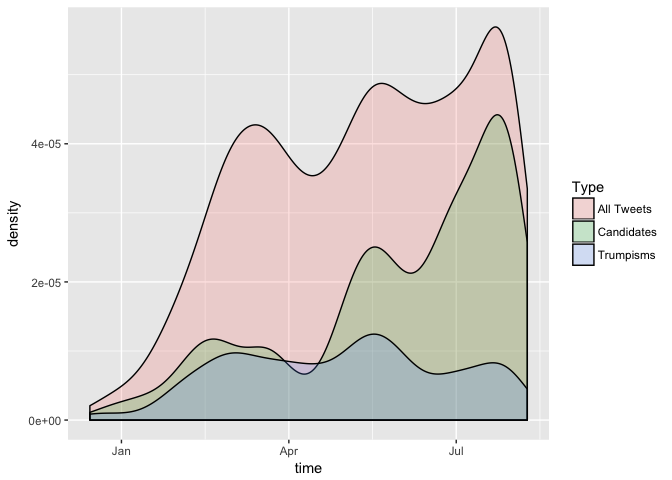
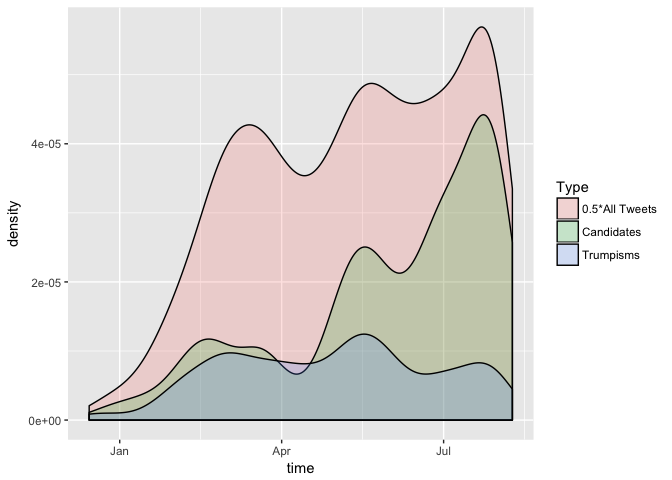
Explained some things better

diff --git a/hw06/LittleBird.md b/hw06/LittleBird.md
@@ -147,7 +147,9 @@ knitr::kable(head(df))
 |2016-08-07 21:31:46 |        0|         0| 0.5|
 |2016-08-07 13:49:29 |        0|         0| 0.5|
 
-Now we want to plot these on the same graph, so its natural to reshape our data so that `nummatch` is a type of count
+This is a bad set of data, so it doesn't look interesting, but believe me it worked!
+
+We create the all type to keep track of all of his tweets. Note that we scale it by half to stop it from obscuring our data when we plot. Now we want to plot these on the same graph, so its natural to reshape our data so that `nummatch` is a type of count
 
 
 ```r
@@ -179,7 +181,7 @@ Now we can plot it:
 ```r
 ggplot(df2, aes(x=time, fill = wordtype)) + 
   geom_density(aes(weights = count), alpha = 0.2) +
-  scale_fill_discrete(name = "Type", labels=c("All Tweets", "Candidates","Trumpisms"))
+  scale_fill_discrete(name = "Type", labels=c("0.5*All Tweets", "Candidates","Trumpisms"))
 ```
 
 ```
